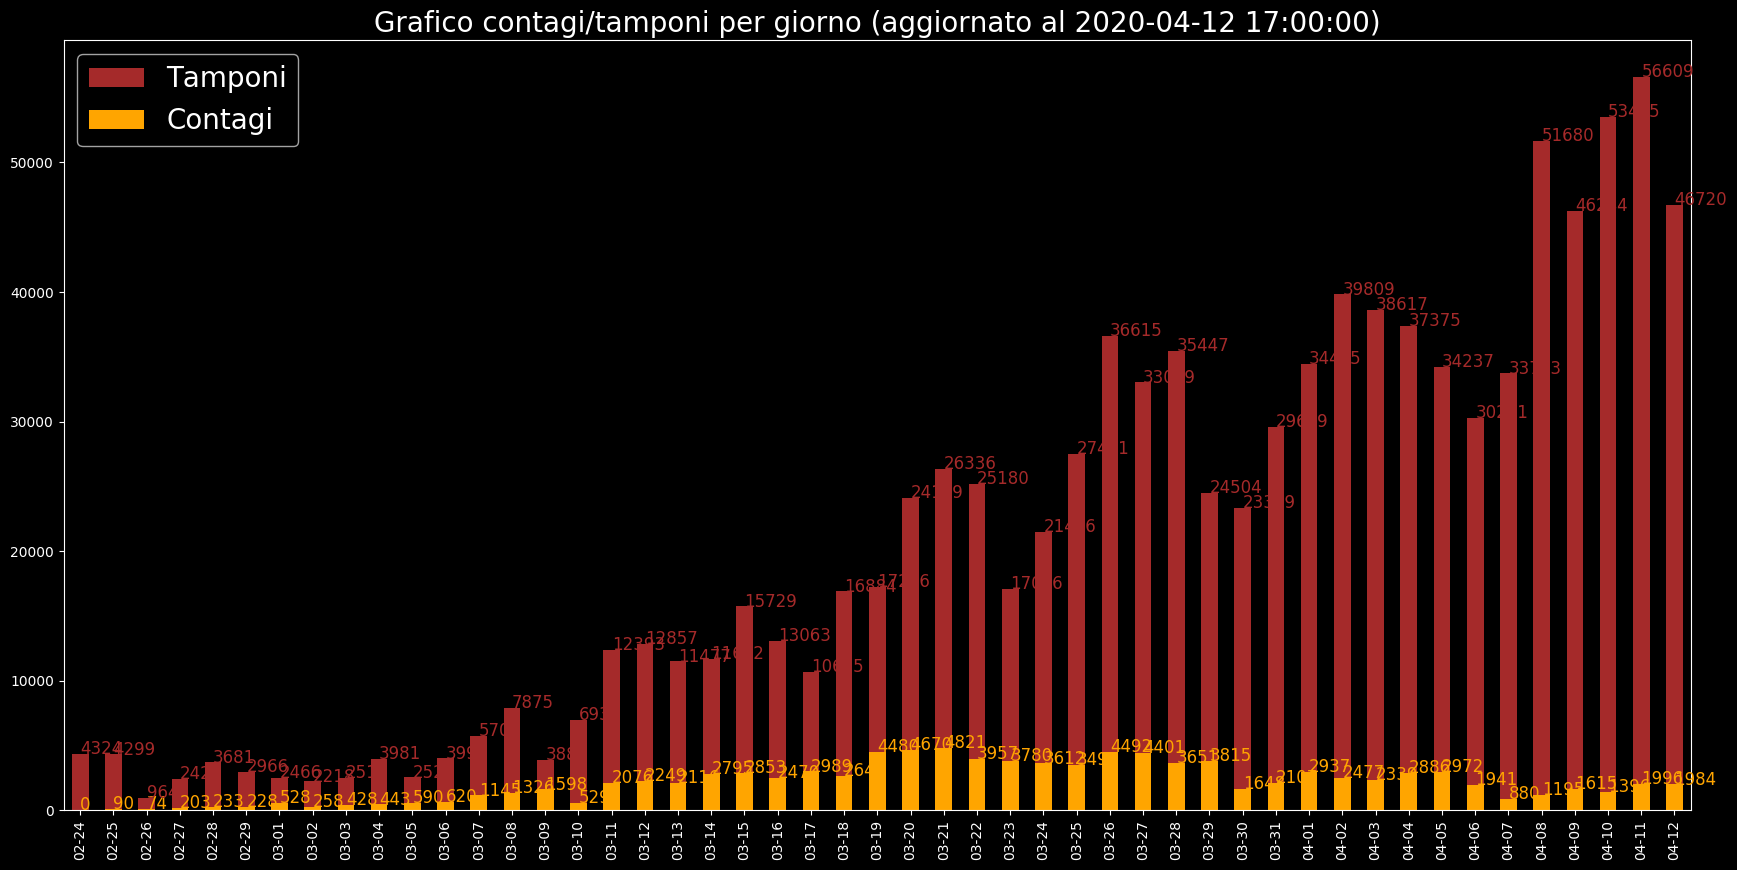
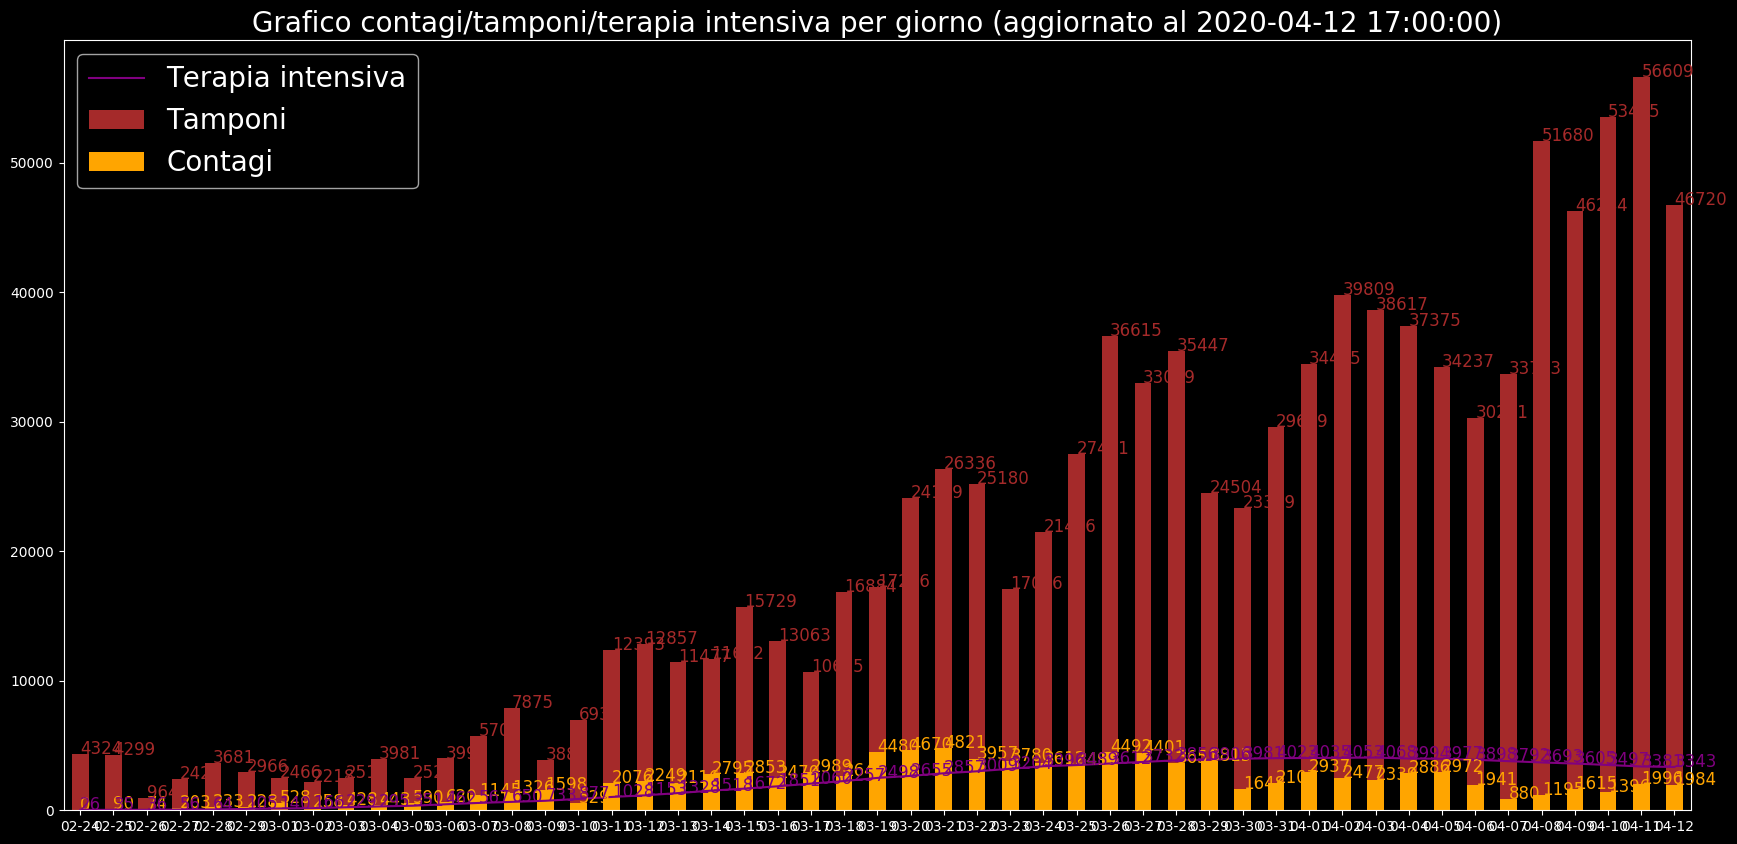
Added 11-04

diff --git a/covid19graphs/src/TampsCont.py b/covid19graphs/src/TampsCont.py
@@ -86,27 +86,33 @@ def main():
     contxday = [int(h[7])if h[7] else 0 for h in originaldays]
     # Lista tamponi per giorno
     tampxday = [int(h[12]) if h[12] else 0 for h in listadati]
+    #Lista terapia intensiva
+    intenxday = [int(h[3])if h[3] else 0 for h in originaldays]
 
     # Creazioni Serie
 
     contseries = pd.Series(data=contxday, index=giornocasi)
     tampseries = pd.Series(data=tampxday, index=giornocasi)
+    intenseries = pd.Series(data=intenxday, index=giornocasi)
+
     # Inserisco stile
     plt.style.use('dark_background')
     plt.figure(figsize=(21, 10))
     # Lista delle serie che voglio vedere nel grafico
-    listaseriescelte = [contseries, tampseries]
+    listaseriescelte = [contseries, tampseries, intenseries]
     # Lista dei colori per ogni serie, in ordine
-    listacolori = ["orange", "brown"]
+    listacolori = ["orange", "brown", "purple"]
 
     # Grafico a linee
     tampseries.plot.bar(color="brown", label="Tamponi")
     contseries.plot.bar(color="orange", label="Contagi")
+    intenseries.plot(color="purple", label="Terapia intensiva")
+
     # Aggiungo testo e mostro grafico
     aggiungitesto(giornocasi, listaseriescelte, listacolori)
     datatoday = listadati[-1][0].split("T")[0]
     oratoday = listadati[-1][0].split("T")[1]
-    savegraph("Grafico contagi/tamponi per giorno (aggiornato al {})".format(datatoday + " " + oratoday))
+    savegraph("Grafico contagi/tamponi/terapia intensiva per giorno (aggiornato al {})".format(datatoday + " " + oratoday))
     return
 
 
